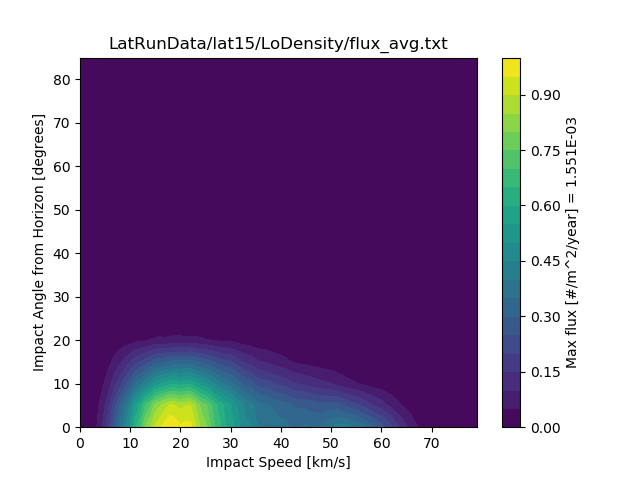
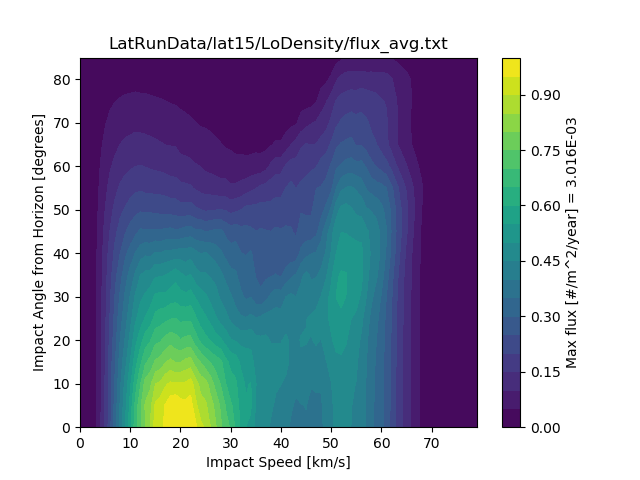
Fixed 15 degree plot

Changed region(s): [[0.1562, 0.125, 0.6562, 0.9062], [0.875, 0.3125, 0.9062, 0.4062], [0.875, 0.25, 0.9062, 0.2812]]

diff --git a/readMEMdataV2.py b/readMEMdataV2.py
@@ -23,7 +23,7 @@ lat_min   = -90
 
 #filename = sys.argv[1] # '/LatRunData/lat-90/HiDensity/flux_avg.txt'
 preDirectory     = sys.argv[1] # LatRunData
-densityDirectory = sys.argv[2] # HiDensity
+densityDirectory = sys.argv[2] # HiDensity LoDensity
 
 
 for ilat in range(0, N_lat):
